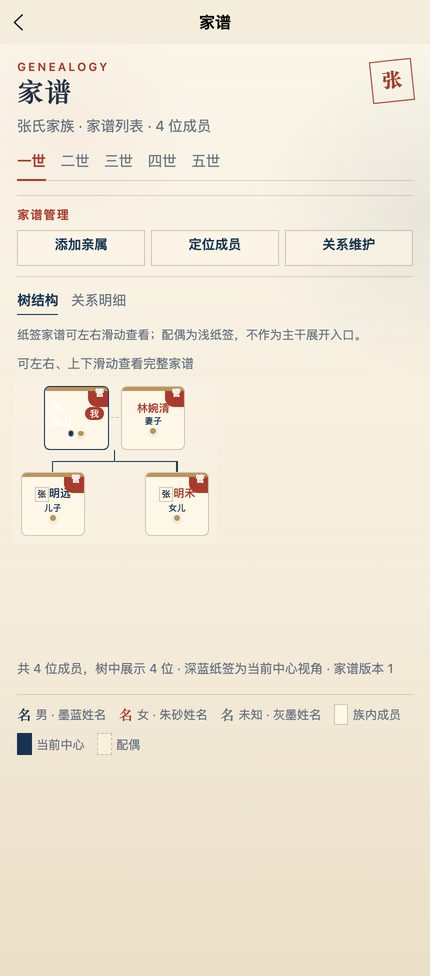
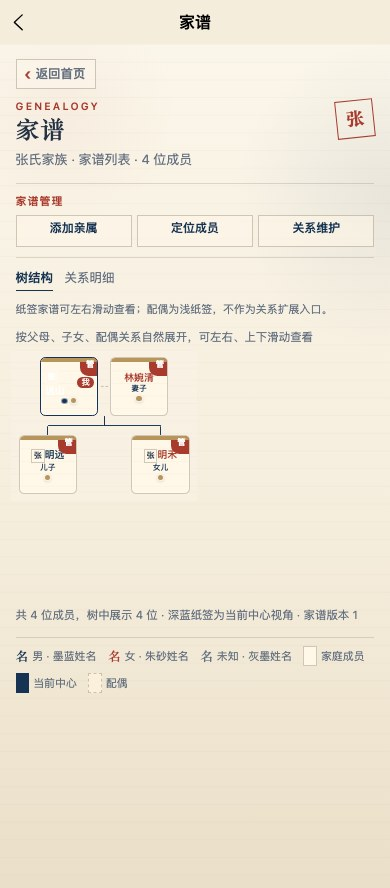
fix(miniapp): remove fixed generation tabs

diff --git a/miniapp/src/pages/family/private-tree.vue b/miniapp/src/pages/family/private-tree.vue
@@ -23,18 +23,6 @@
         <view v-if="family" class="archive-seal">{{ family.familySurname.slice(0, 1) }}</view>
       </view>
 
-      <view class="generation-tabs">
-        <view
-          v-for="item in generationTabs"
-          :key="item"
-          class="generation-tab"
-          :class="{ active: activeGeneration === item }"
-          @click="activeGeneration = item"
-        >
-          <text>{{ item }}</text>
-        </view>
-      </view>
-
       <view v-if="canManageFamily" class="genealogy-tools">
         <text class="genealogy-tools-label">家谱管理</text>
         <view class="genealogy-tools-links">
@@ -62,7 +50,7 @@
       </view>
 
       <view class="tree-scroll-note">
-        <text>纸签家谱可左右滑动查看；配偶为浅纸签，不作为主干展开入口。</text>
+        <text>纸签家谱可左右滑动查看；配偶为浅纸签，不作为关系扩展入口。</text>
       </view>
 
       <template v-if="viewMode === 'structure'">
@@ -108,7 +96,7 @@
         </view>
         <view class="legend-item">
           <text class="legend-tag lineage" />
-          <text>族内成员</text>
+          <text>家庭成员</text>
         </view>
         <view class="legend-item">
           <text class="legend-tag current" />
@@ -156,8 +144,6 @@ const loading = ref(false)
 const errorMessage = ref('')
 const viewMode = ref<FamilyTreeViewMode>('structure')
 const viewerMemberId = ref<number | null>(null)
-const generationTabs = ['一世', '二世', '三世', '四世', '五世']
-const activeGeneration = ref('一世')
 
 const edgeCount = computed(() => (tree.value ? countVisibleEdges(tree.value) : 0))
 const relationSentences = computed(() => (tree.value ? buildRelationSentences(tree.value) : []))
@@ -288,37 +274,6 @@ onUnload(resetPageData)
   justify-content: space-between;
   gap: 24rpx;
   margin-bottom: 24rpx;
-}
-
-.generation-tabs {
-  display: flex;
-  align-items: center;
-  gap: 26rpx;
-  margin-bottom: 24rpx;
-  border-bottom: 1rpx solid var(--archive-line);
-}
-
-.generation-tab {
-  position: relative;
-  padding: 0 0 16rpx;
-  color: var(--archive-ink-soft);
-  font-size: 25rpx;
-  line-height: 1.4;
-}
-
-.generation-tab.active {
-  color: var(--archive-cinnabar);
-  font-weight: 750;
-}
-
-.generation-tab.active::after {
-  content: '';
-  position: absolute;
-  right: 0;
-  bottom: -1rpx;
-  left: 0;
-  height: 3rpx;
-  background: var(--archive-cinnabar);
 }
 
 .genealogy-tools {

diff --git a/miniapp/src/features/family-tree/layoutFamilyTree.ts b/miniapp/src/features/family-tree/layoutFamilyTree.ts
@@ -183,16 +183,10 @@ export function layoutFamilyTree(input: FamilyTreeBuildInput): FamilyTreeLayoutR
     const renderNodes: RenderCoupleNode[] = []
     const nodeById = new Map<string, RenderCoupleNode>()
     let scrollIntoViewId: string | undefined
-    let rootAnchorAssigned = false
 
     root.each((node) => {
       if (node.data.virtual) return
       const width = node.data.coupleWidth
-      const scrollAnchorId = rootAnchorAssigned ? undefined : 'tree-root-anchor'
-      if (scrollAnchorId) {
-        rootAnchorAssigned = true
-        scrollIntoViewId = scrollAnchorId
-      }
 
       const renderNode: RenderCoupleNode = {
         id: node.data.id,
@@ -200,12 +194,26 @@ export function layoutFamilyTree(input: FamilyTreeBuildInput): FamilyTreeLayoutR
         x: node.x - width / 2 + shiftX,
         y: node.y + shiftY,
         width,
-        height: COUPLE_ROW_H,
-        scrollAnchorId
+        height: COUPLE_ROW_H
       }
       renderNodes.push(renderNode)
       nodeById.set(renderNode.id, renderNode)
     })
+
+    const viewerMemberId = safeInput.viewerMemberId
+    if (viewerMemberId != null) {
+      const viewerNode = renderNodes.find((item) =>
+        item.parents.some((parent) => parent.memberId === viewerMemberId)
+      )
+      if (viewerNode) {
+        viewerNode.scrollAnchorId = `tree-viewer-anchor-${viewerMemberId}`
+        scrollIntoViewId = viewerNode.scrollAnchorId
+      }
+    }
+    if (!scrollIntoViewId && renderNodes.length > 0) {
+      renderNodes[0].scrollAnchorId = 'tree-root-anchor'
+      scrollIntoViewId = 'tree-root-anchor'
+    }
 
     const renderLinks: RenderTreeLink[] = []
     for (const link of root.links()) {

diff --git a/miniapp/src/features/family-tree/buildFamilyGraph.test.ts b/miniapp/src/features/family-tree/buildFamilyGraph.test.ts
@@ -218,7 +218,7 @@ test('missing memberType is excluded from unlocated lineage list', () => {
   assert.deepEqual(filterUnlocatedLineageMemberIds([100], related, memberTypeById), [])
 })
 
-test('deep viewer keeps initial viewport anchored to the patrilineal root', () => {
+test('deep viewer keeps initial viewport anchored to the current center', () => {
   const nodes = [
     node(1, '张曾祖父', 'MALE', 'LINEAGE_MEMBER', '1920-01-01'),
     node(2, '李曾祖母', 'FEMALE', 'SPOUSE', '1922-01-01'),
@@ -242,7 +242,7 @@ test('deep viewer keeps initial viewport anchored to the patrilineal root', () =
     item.parents.some((parent) => parent.memberId === 5)
   )
 
-  assert.equal(layout.scrollIntoViewId, 'tree-root-anchor')
-  assert.equal(rootNode?.scrollAnchorId, 'tree-root-anchor')
-  assert.equal(viewerNode?.scrollAnchorId, undefined)
+  assert.equal(layout.scrollIntoViewId, 'tree-viewer-anchor-5')
+  assert.equal(rootNode?.scrollAnchorId, undefined)
+  assert.equal(viewerNode?.scrollAnchorId, 'tree-viewer-anchor-5')
 })

diff --git a/miniapp/src/components/family/FamilyTreeGraph.vue b/miniapp/src/components/family/FamilyTreeGraph.vue
@@ -8,7 +8,7 @@
 
     <template v-else>
       <view class="scroll-hint">
-        <text class="hint-text">可左右、上下滑动查看完整家谱</text>
+        <text class="hint-text">按父母、子女、配偶关系自然展开，可左右、上下滑动查看</text>
       </view>
 
       <scroll-view
@@ -89,7 +89,7 @@
       <view v-if="layout.unlocatedMembers.length > 0" class="unlocated-section">
         <view class="unlocated-head">
           <text class="unlocated-title">未定位成员</text>
-          <text class="unlocated-desc">以下成员未接入主家谱主干，可在「定位成员」中挂接。</text>
+          <text class="unlocated-desc">以下成员暂未接入当前关系图，可在「定位成员」中挂接。</text>
         </view>
         <view class="unlocated-list">
           <FamilyTreePersonCard

diff --git a/miniapp/src/pages/family/public-tree.vue b/miniapp/src/pages/family/public-tree.vue
@@ -54,7 +54,7 @@
       </view>
 
       <view class="tree-scroll-note">
-        <text>纸签家谱可左右滑动查看；配偶为浅纸签，不作为主干展开入口。</text>
+        <text>纸签家谱可左右滑动查看；配偶为浅纸签，不作为关系扩展入口。</text>
       </view>
 
       <template v-if="viewMode === 'structure'">
@@ -92,7 +92,7 @@
         </view>
         <view class="legend-item">
           <text class="legend-tag lineage" />
-          <text>族内成员</text>
+          <text>家庭成员</text>
         </view>
         <view class="legend-item">
           <text class="legend-tag spouse" />
